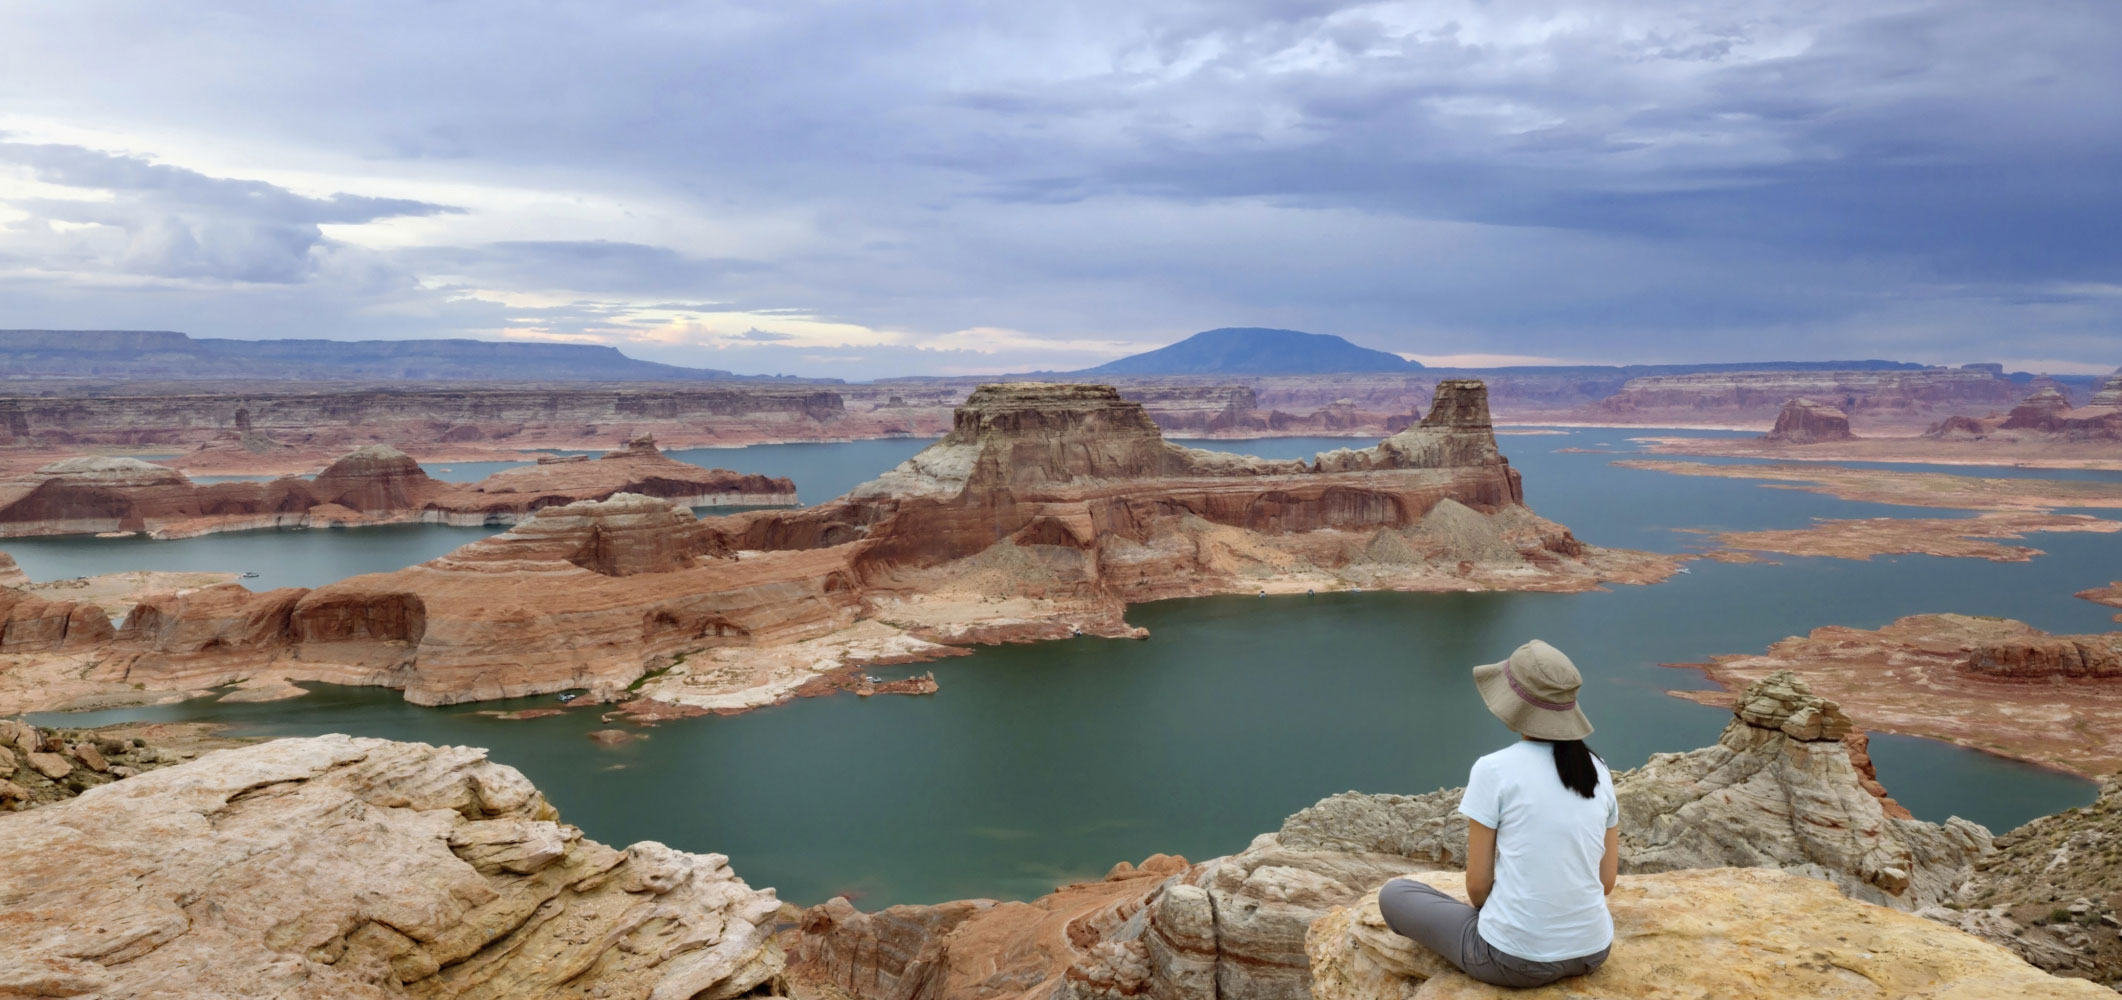
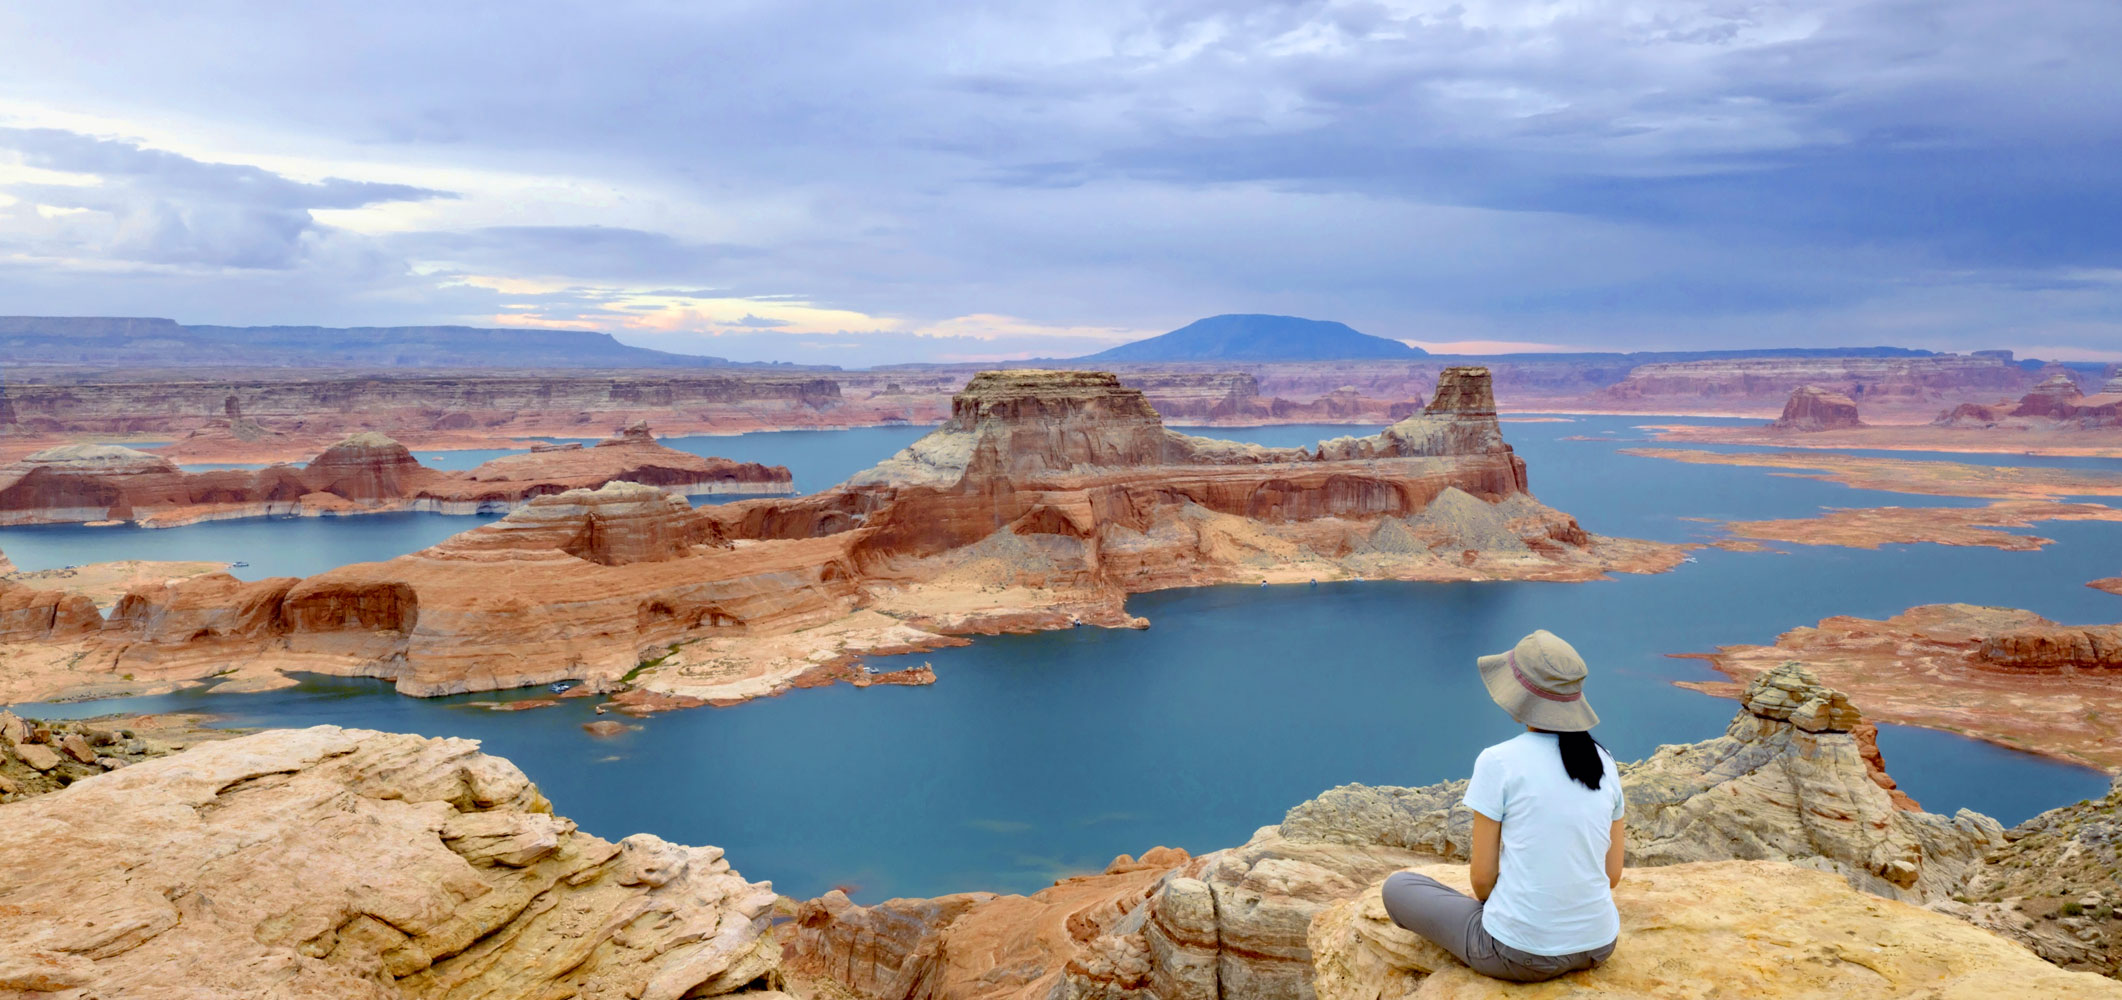
updates to site, breakpoint fonts, image quality

diff --git a/httpdocs/css/dave.css b/httpdocs/css/dave.css
@@ -1,1 +1,60 @@
 /* Dave overrides */
+
+header nav .menu-item a {
+font-family: "latoregular", helvetica, sans-serif;
+/* font-size: .9em;*/
+color: #666;
+}
+
+
+.banner-container .notice-container .title {
+font-family: "latoregular", helvetica, sans-serif;
+font-size: .9em;
+text-transform: uppercase;
+}
+
+.banner-container .hero-text h2 {
+letter-spacing: .5px;
+color: #f2f8ff;
+}
+
+
+.latest-news .news-container h2 {
+font-family: "latoregular", helvetica, sans-serif;
+font-size: 1.1em;
+color: #333;
+text-transform: uppercase;
+}
+
+
+@media only screen and (min-width: 1140px) {
+.banner-container.big .hero-container {
+height: 750px;
+}
+.banner-container .hero-text h2 {
+font-size: 4em;
+}
+.banner-container .hero-text {
+margin-top: 100px;
+}
+
+.banner-container .hero-text .hero-cta {
+font-size: 30px;
+}
+
+}
+
+
+
+@media only screen and (min-width: 1900px) {
+.banner-container.big .hero-container {
+height: 900px;
+}
+.banner-container .hero-text h2 {
+font-size: 5em;
+}
+.banner-container .hero-text {
+margin-top: 150px;
+}
+
+}

diff --git a/httpdocs/application/views/footer.php b/httpdocs/application/views/footer.php
@@ -11,9 +11,9 @@
 	                    <nav>
 	                        <ul>
 	                            <li><a href="#">About Us</a></li>
-	                            <li><a href="#">In The News</a></li>
+	                            <!--li><a href="#">In The News</a></li>
 	                            <li><a href="#">Investors</a></li>
-	                            <li><a href="#">Tax Info</a></li>
+	                            <li><a href="#">Tax Info</a></li-->
 	                            <li><a href="#">Contact Us</a></li>
 	                            <li><a href="#">Site Map</a></li>
 	                            <li><a href="#">Terms of Use</a></li>

diff --git a/httpdocs/application/views/home.php b/httpdocs/application/views/home.php
@@ -12,7 +12,7 @@
 	    <div class="container">
 	        <div class="hero-text">
 	            <h2>Perspective and insight<br>for real estate investment<br>that stands the test of time</h2>
-	            <a class="hero-cta" href="#">Learn More</a>
+	            <a class="hero-cta" href="#">Become an Investor</a>
 	        </div>
         </div>
     </div>
